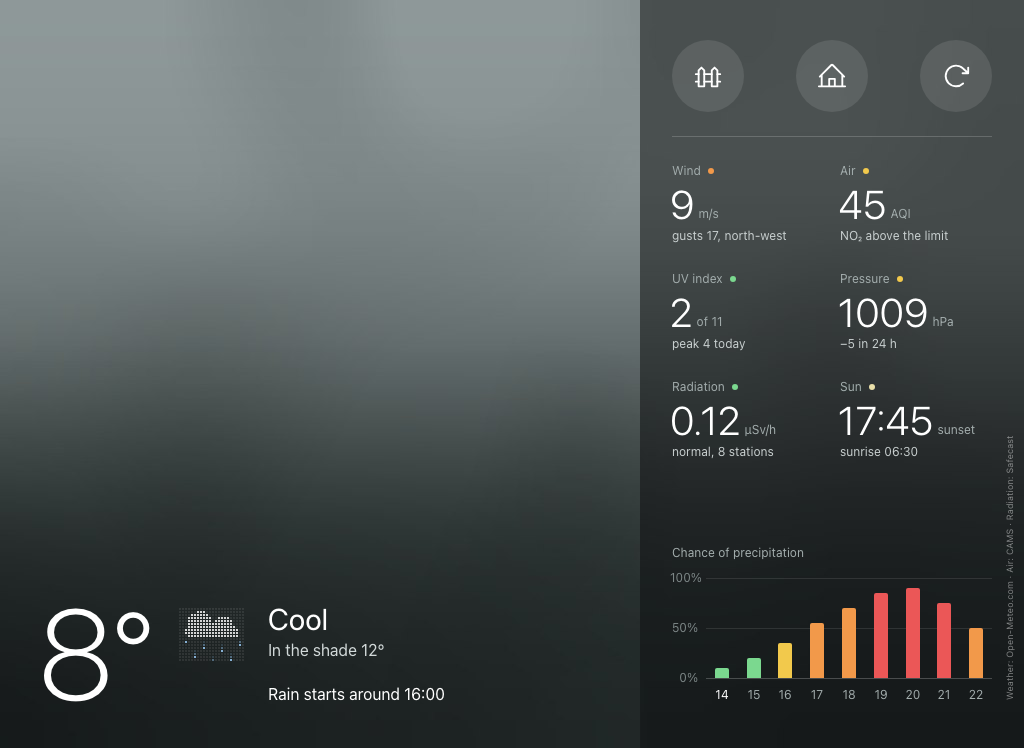
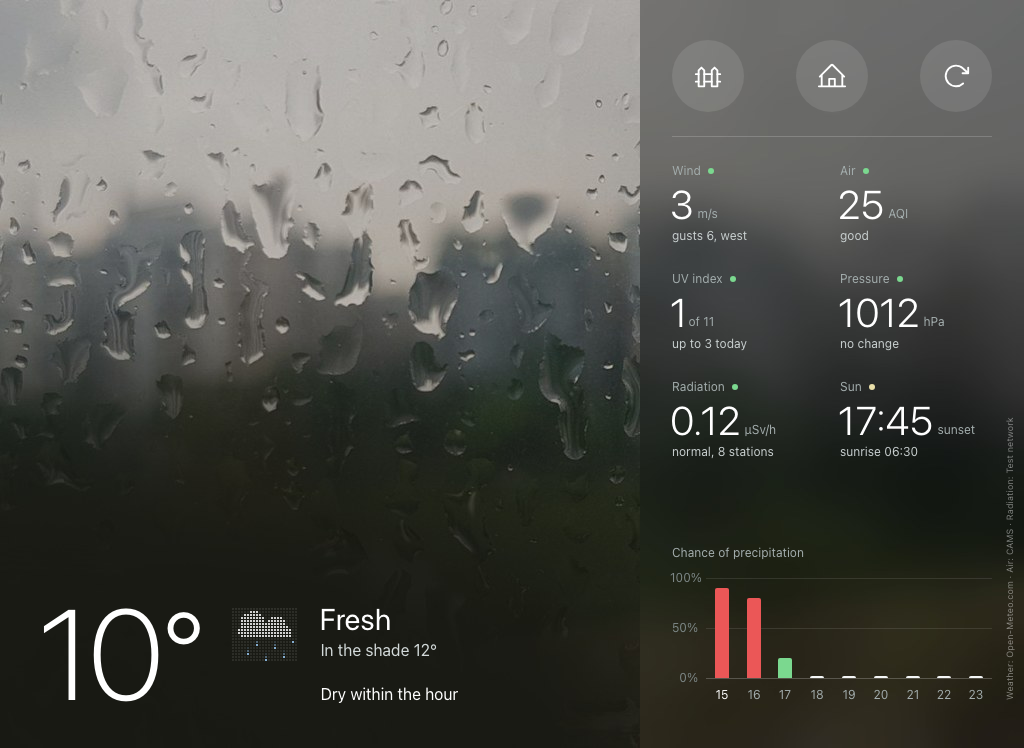
Screenshots with the curated weather photos; preview server --real-photos

diff --git a/tools/preview_server.py b/tools/preview_server.py
@@ -26,7 +26,8 @@ Routes:
   /api/ver            the VER of static/index.html, so "/" never reloads in a loop
   POST /api/*         {"ok": true, "stub": true}; the request body is logged
   /stream?panel=...   a generated test-pattern JPEG (never a real camera frame)
-  /ph/<key>/bg.jpg|panel.jpg   generated gradient "photos" (scene = key before the first "-")
+  /ph/<key>/bg.jpg|panel.jpg   generated gradient "photos" (scene = key before the first "-"),
+                               or the curated catalogue photos with --real-photos
   /ws                 WebSocket stub: hello {"stub": true}, demo events, a pulse every 5 s
   anything else       files from static/ (icons/, ring/, mock/, buttons/, dots.js, icon.svg)
 
@@ -186,12 +187,31 @@ def _photo(key):
     return _jpeg(bg), _jpeg(panel)
 
 
+REAL_PHOTOS = False       # --real-photos: the curated Openverse catalogue instead of gradients
+
+
+def _real_photo(key):
+    """The catalogue photo behind a panel's photo key, processed exactly like on a station
+    (network: Openverse). None when the key is not in the catalogue or the download fails."""
+    try:
+        sys.path.insert(0, os.path.dirname(os.path.dirname(os.path.abspath(__file__))))
+        from intercom_webtab.weather import photo as wp
+        entry = wp.PhotoStore().by_key.get(key)
+        if not entry:
+            return None
+        item = wp.process(wp.http_get(wp.PROXY % entry[1]["id"]))
+        return item["bg"], item["panel"]
+    except Exception as e:
+        sys.stderr.write("real photo %s failed: %s\n" % (key, e))
+        return None
+
+
 def photo(key, part):
     if Image is None:
         return None
     with _img_lock:
         if key not in _img_cache:
-            _img_cache[key] = _photo(key)
+            _img_cache[key] = (REAL_PHOTOS and _real_photo(key)) or _photo(key)
         bg, pn = _img_cache[key]
     return bg if part == "bg" else pn
 
@@ -363,7 +383,11 @@ def main(argv=None):
     ap = argparse.ArgumentParser(description="Intercom WebTab page preview (no real station involved)")
     ap.add_argument("--host", default="127.0.0.1")
     ap.add_argument("--port", type=int, default=8897)
+    ap.add_argument("--real-photos", action="store_true",
+                    help="serve the curated Openverse photos (needs network) instead of gradients")
     args = ap.parse_args(argv)
+    global REAL_PHOTOS
+    REAL_PHOTOS = args.real_photos
     for msg in self_check():
         sys.stderr.write("WARNING: %s\n" % msg)
     if Image is None:

diff --git a/README.md b/README.md
@@ -9,14 +9,19 @@ A small Linux server does the work: Asterisk takes the SIP call from the door pa
 door-opening digit when you tap **Open**. The iPad only runs a web page saved to its Home
 Screen. You do not need an app or an account.
 
-| Idle: weather panel | A visitor is ringing |
+| Idle: rain ending soon | Idle: rain expected at 16:00 |
 |---|---|
-| ![Idle station showing rain forecast](docs/screenshots/idle-rain.png) | ![Incoming call with the camera picture and the Answer button](docs/screenshots/ring.png) |
-| **Door opened** | **Idle in winter** |
-| ![The gate was opened, the Open button is green](docs/screenshots/opened.png) | ![Idle station showing snow and frost](docs/screenshots/idle-snow.png) |
+| ![Idle station, rain on the window, rain ending within the hour](docs/screenshots/idle-rain.png) | ![Idle station, clouds, rain expected in the afternoon](docs/screenshots/idle-cloudy.png) |
+| **A visitor is ringing** | **Door opened** |
+| ![Incoming call with the camera picture and the Answer button](docs/screenshots/ring.png) | ![The gate was opened, the Open button is green](docs/screenshots/opened.png) |
+| **Frost and snow** | **Heat** |
+| ![Idle station at night with falling snow, feels like minus ten](docs/screenshots/idle-snow.png) | ![Idle station in a heat wave with the sun close up](docs/screenshots/idle-heat.png) |
+| **Thunderstorm** | **Cloudy night** |
+| ![Idle station during a thunderstorm](docs/screenshots/idle-storm.png) | ![Idle station on a cloudy night with the moon, rain in the morning](docs/screenshots/idle-night.png) |
 
-*The screenshots come from the preview server, so they show a test pattern and generated
-backgrounds instead of a real camera and photos.*
+*Screenshots from the preview server (`tools/preview_server.py --real-photos`): the weather
+backgrounds are the real CC0 / public-domain photos the station uses, the camera picture is a
+test pattern.*
 
 ## Features
 

diff --git a/THIRD_PARTY_NOTICES.md b/THIRD_PARTY_NOTICES.md
@@ -102,6 +102,12 @@ the [Openverse](https://openverse.org/) API's image proxy, processes them in mem
 never writes them to disk. No credit is legally required, but the creators are listed
 in the catalogue with thanks.
 
+The screenshots in `docs/screenshots/` contain six of these photos as processed
+backgrounds, all CC0: "Rain drops on window glass." by RM Shiblee Mehdi, "Street Light" by
+megforce1, "A clear blue sky with scattered fluffy white clouds." by Deepak Rajpal, "Active
+region 2674 on today's Sun" by upsidedown astronomer, "Lightning Dark" by Jeremy Thomas and
+"Dark Night" by Matthew Kane.
+
 ## Methods and formulas
 
 ### UTCI polynomial

diff --git a/docs/development.md b/docs/development.md
@@ -82,6 +82,7 @@ in the incoming context, as Asterisk would. Nothing real is ever dialled.
 
 ```sh
 python3 tools/preview_server.py            # http://127.0.0.1:8897/preview?mock=rain
+python3 tools/preview_server.py --real-photos   # the curated catalogue photos (needs network)
 ```
 
 This server uses only the standard library. Pillow is optional: it draws placeholder
